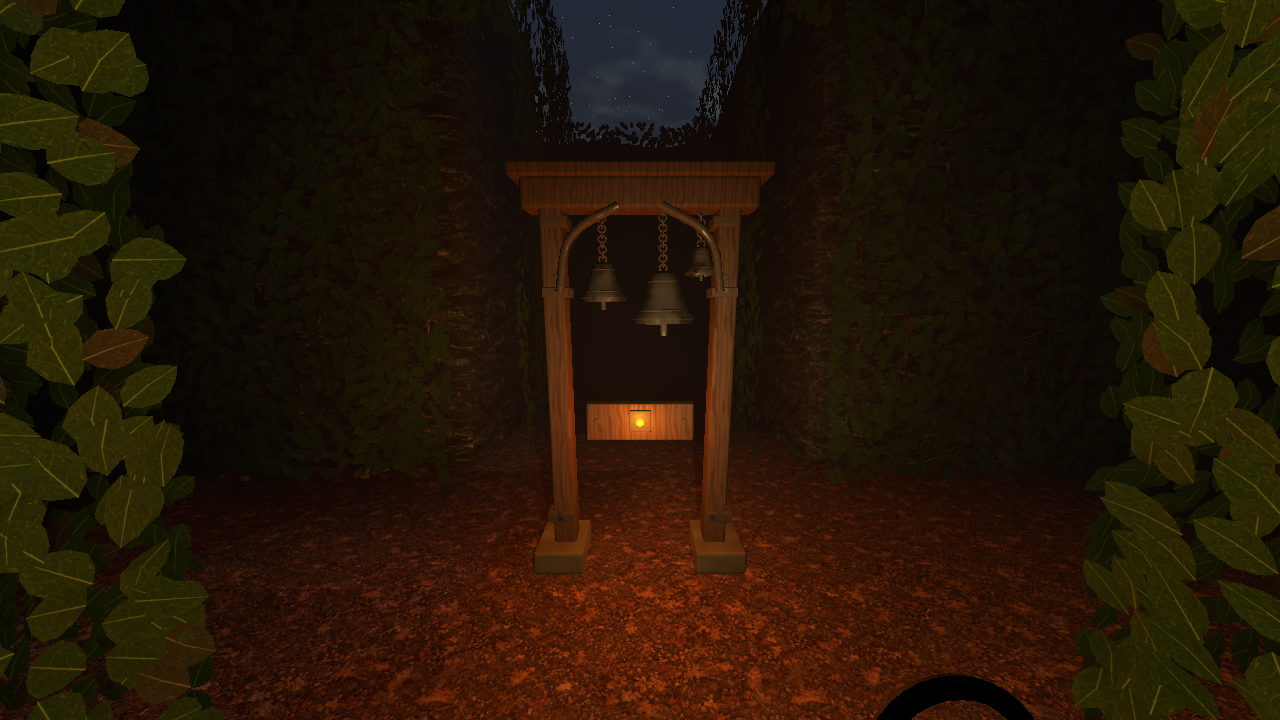
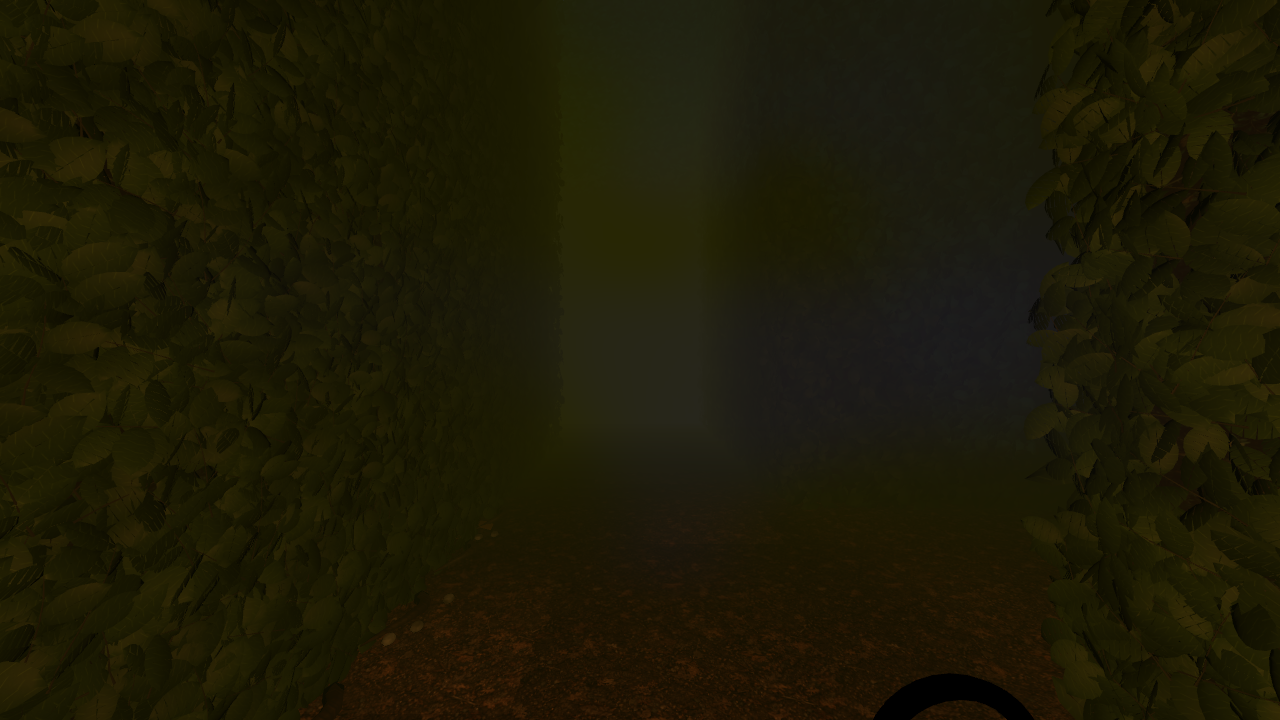
release: publish 0.23.20 immersion and survivor motion (#106)
Publish the locally built and tested alpha through the existing website and Windows updater. Preserve launcher URLs and settings. The owner authorized only GitHub’s built-in Pages deployment; builds and verification ran locally.

diff --git a/docs/index.html b/docs/index.html
@@ -23,10 +23,10 @@
     <img class="hero-image" src="./assets/station-key-art.png" alt="Key art: a lone figure beneath a red beacon in a flooded pumping station" fetchpriority="high">
     <div class="hero-shade"></div>
     <div class="hero-copy">
-      <p class="eyebrow"><span class="signal" aria-hidden="true"></span> FREE PLAYABLE ALPHA <span class="build-number">/ 0.23.19</span></p>
+      <p class="eyebrow"><span class="signal" aria-hidden="true"></span> FREE PLAYABLE ALPHA <span class="build-number">/ 0.23.20</span></p>
       <h1 id="game-title">THE HOLLOW<br><span>BELOW</span><i>.</i></h1>
       <p class="tagline">Something down here<br>still remembers your name.</p>
-      <div class="hero-actions"><a class="button primary" href="https://github.com/RyanVerWey/the-hollow-below-alpha/releases/download/v0.23.19/The-Hollow-Below-Alpha-Setup.exe" data-installer-download download>DOWNLOAD INSTALLER <span aria-hidden="true">↓</span></a></div>
+      <div class="hero-actions"><a class="button primary" href="https://github.com/RyanVerWey/the-hollow-below-alpha/releases/download/v0.23.20/The-Hollow-Below-Alpha-Setup.exe" data-installer-download download>DOWNLOAD INSTALLER <span aria-hidden="true">↓</span></a></div>
       <p class="platform-note">Windows 10 / 11 · Solo / 2–4 player co-op · Keyboard &amp; mouse</p>
     </div>
     <div class="hero-bottom"><span>BLACKWATER MUNICIPAL AUTHORITY<br><small>INCIDENT RECORD / 013</small></span><button class="sound-toggle" id="sound-toggle" type="button" aria-pressed="false"><span aria-hidden="true">♫</span> LISTEN TO THE STATION</button><span class="key-art-label">KEY ART / NOT A GAMEPLAY CAPTURE</span></div>
@@ -45,10 +45,10 @@
   <section class="play-section section" id="play" aria-labelledby="play-title">
     <div class="play-heading"><p class="eyebrow">02 / ACCESS AUTHORIZED</p><h2 id="play-title">GO BELOW.</h2><p>Free alpha. No account. No engine to install.</p></div>
     <div class="download-panel">
-      <div class="release-line"><span class="availability"><span class="signal" aria-hidden="true"></span> ALPHA AVAILABLE</span><span id="release-version">BUILD 0.23.19</span></div>
+      <div class="release-line"><span class="availability"><span class="signal" aria-hidden="true"></span> ALPHA AVAILABLE</span><span id="release-version">BUILD 0.23.20</span></div>
       <h3>WINDOWS ALPHA</h3><p class="download-description">The full game and its own launcher in one Windows installer. Install once, then return through your desktop or Start menu shortcut.</p>
-      <a class="button primary download-launcher" href="https://github.com/RyanVerWey/the-hollow-below-alpha/releases/download/v0.23.19/The-Hollow-Below-Alpha-Setup.exe" data-installer-download download>DOWNLOAD INSTALLER <span aria-hidden="true">↓</span></a>
-      <p class="download-facts" id="download-facts">Windows 10 / 11, 64-bit · Full installer: 394.7 MB</p>
+      <a class="button primary download-launcher" href="https://github.com/RyanVerWey/the-hollow-below-alpha/releases/download/v0.23.20/The-Hollow-Below-Alpha-Setup.exe" data-installer-download download>DOWNLOAD INSTALLER <span aria-hidden="true">↓</span></a>
+      <p class="download-facts" id="download-facts">Windows 10 / 11, 64-bit · Full installer: 401.1 MB</p>
       <ol class="install-steps"><li>Open the installer and choose <b>Install</b>.</li><li>Open the launcher and choose <b>Play game</b>.</li><li>Return using your desktop or Start menu shortcut.</li></ol>
       <p class="alpha-note">Early, unsigned alpha software. Windows may show a publisher warning. There is no save system yet.</p>
       <p class="launcher-features">Game-file verification · Offline play · No administrator needed<br>Uninstall through Windows Installed apps.</p>
@@ -58,7 +58,7 @@
   <section class="field-section section" id="field-notes" aria-labelledby="notes-title">
     <div class="field-heading"><p class="eyebrow">03 / FIELD NOTES</p><h2 id="notes-title">BEFORE YOU ENTER.</h2></div>
     <div class="field-grid"><div class="controls"><h3>Keep these close.</h3><dl><div><dt>Move</dt><dd>W A S D</dd></div><div><dt>Look</dt><dd>MOUSE / ARROWS</dd></div><div><dt>Sprint</dt><dd>SHIFT</dd></div><div><dt>Crouch</dt><dd>C / CTRL</dd></div><div><dt>Flashlight</dt><dd>F</dd></div><div><dt>Use / hide</dt><dd>E</dd></div><div><dt>Objectives</dt><dd>TAB</dd></div><div><dt>Survey in staging</dt><dd>M</dd></div><div><dt>Difficulty in staging</dt><dd>R</dd></div><div><dt>Pause</dt><dd>ESC</dd></div></dl></div>
-    <div class="faq"><details open><summary>What is in this alpha?</summary><p>Godot alpha 0.23.19. Voice has two explicit transmission modes: Open Microphone and Push to Talk. Push to Talk sends only while its bound key is held, including quiet speech; releasing it closes the send gate. Stale microphone frames are discarded at input boundaries. Everyone in a co-op group should update. Play solo or host private co-op for 2–4 players using invite codes. Choose from four survivors and save your own display name. The host selects either level and difficulty. Survivors start separately, share objectives and map discoveries, and must each escape. Death or escape lets you spectate. The host must stay connected; online menus do not pause the hunt. Internet is required for co-op; solo play remains offline. Two playable nightmares: Blackwater pumping station and Briarwake Estate, a moonlit hedge maze. Briarwake has a blood-moon sky, drifting haze, damp dirt paths and joined hedges. Its farmer wears a stitched hood and leather apron, carries a two-handed chainsaw, and uses authored walk, run and three attack animations. New iron oil lanterns mark corridor turns. Its chainsaw attacks have a visible windup, a committed swing and recovery; cover and retreat can prevent a hit. Briarwake has a safe potting house, dim lanterns, cold haze, tool shelters and the Thornkeeper: a demonic farmer carrying a chainsaw. Restore three wards in any order. The Lantern Ward strengthens guide lights and doubles portable-lantern endurance; the Wind Bell adds player tracking and a reusable nearby stagger; the Root Altar opens three thorn shortcuts. Any ward unlocks the M-toggle survey; seen objectives are recorded on the map; unseen locations remain hidden. Restore all three and return to the estate gate. Hear the saw approach before you see him. Both levels share the same HUD, map legend, objective checklist, pause controls and settings. Found objectives gain amber map pins; completed objectives turn green. Both levels offer Easy, Normal, Hard and Nightmare, with different routes, lighting, equipment and hunting. Nightmare removes portable light and sprint and locks most hiding places. Blackwater retains its breaker progression and live field map. Electrical buzzing grows louder near unpowered breakers, carries around corners and stops when restored. In Briarwake, follow lantern wind and loose metal, a creaking bell hanger with dull clapper, or dry root groans to dormant wards. Each falls silent when restored. Its harmless corner scares now have roughly half the former cooldown, with shorter retries when placement fails. Corn Maze and Stone Labyrinth remain Coming Soon. TAB shows objectives; Escape pauses and resumes. Restarting or leaving a run requires confirmation that progress will not be saved. Controls &amp; settings offers Fullscreen, Borderless and Windowed, resolution, three graphics presets, V-Sync and a frame limit. Display changes revert unless confirmed. The title menu includes Quit to desktop.</p></details><details><summary>How do I play with friends?</summary><p>Open Play with Friends, enter your name and host a private lobby. Share its invite code with up to three friends. Everyone chooses a survivor and readies up; the host chooses the level and difficulty and starts the descent. You begin in different maze sectors, share objective progress and each need to reach the exit. No account or port forwarding is needed. Co-op requires Internet; the host must keep the game open. Menus do not pause online play. Solo play remains available offline.</p></details><details><summary>How do updates work?</summary><p>The launcher checks for updates when it opens. When a newer alpha is available, choose Update &amp; restart. It downloads and verifies the full installer, installs the update, and reopens the launcher. Close the game before updating. Installed play stays available offline. Older launchers need the latest full installer once to enable this feature.</p></details><details><summary>Can I play on my phone or with a controller?</summary><p>This alpha is built for a desktop keyboard and mouse. Mobile, controller support and saved progress are not available.</p></details><details><summary>Is this on Steam?</summary><p>Not yet. This is an early independent playtest, shared directly while the game grows.</p></details><details><summary>Found something broken?</summary><p>Send the person who shared the game your build number, Windows version, what happened, and the steps that caused it. A screenshot helps. Windows logs: <code>%APPDATA%\Godot\app_userdata\The Hollow Below\logs</code>.</p></details></div></div>
+    <div class="faq"><details open><summary>What is in this alpha?</summary><p>Godot alpha 0.23.20. Briarwake now has continuous tall 3D hedges with layered leaves, branches and overhead vines, plus dense drifting mist at eye height and a low-quality fog fallback. Everyone in a co-op group should update. Play solo or host private co-op for 2–4 players using invite codes. Choose from four survivors and save your own display name. The host selects either level and difficulty. Survivors start separately, share objectives and map discoveries, and must each escape. Death or escape lets you spectate. The host must stay connected; online menus do not pause the hunt. Internet is required for co-op; solo play remains offline. Two playable nightmares: Blackwater pumping station and Briarwake Estate, a moonlit hedge maze. Briarwake has a blood-moon sky, drifting haze, damp dirt paths and joined hedges. Its farmer wears a stitched hood and leather apron, carries a two-handed chainsaw, and uses authored walk, run and three attack animations. New iron oil lanterns mark corridor turns. Its chainsaw attacks have a visible windup, a committed swing and recovery; cover and retreat can prevent a hit. Briarwake has a safe potting house, dim lanterns, cold haze, tool shelters and the Thornkeeper: a demonic farmer carrying a chainsaw. Restore three wards in any order. The Lantern Ward strengthens guide lights and doubles portable-lantern endurance; the Wind Bell adds player tracking and a reusable nearby stagger; the Root Altar opens three thorn shortcuts. Any ward unlocks the M-toggle survey; seen objectives are recorded on the map; unseen locations remain hidden. Restore all three and return to the estate gate. Hear the saw approach before you see him. Both levels share the same HUD, map legend, objective checklist, pause controls and settings. Found objectives gain amber map pins; completed objectives turn green. Both levels offer Easy, Normal, Hard and Nightmare, with different routes, lighting, equipment and hunting. Nightmare removes portable light and sprint and locks most hiding places. Blackwater retains its breaker progression and live field map. Electrical buzzing grows louder near unpowered breakers, carries around corners and stops when restored. In Briarwake, follow lantern wind and loose metal, a creaking bell hanger with dull clapper, or dry root groans to dormant wards. Each falls silent when restored. Its harmless corner scares now have roughly half the former cooldown, with shorter retries when placement fails. Corn Maze and Stone Labyrinth remain Coming Soon. TAB shows objectives; Escape pauses and resumes. Restarting or leaving a run requires confirmation that progress will not be saved. Controls &amp; settings offers Fullscreen, Borderless and Windowed, resolution, three graphics presets, V-Sync and a frame limit. Display changes revert unless confirmed. The title menu includes Quit to desktop.</p></details><details><summary>How do I play with friends?</summary><p>Open Play with Friends, enter your name and host a private lobby. Share its invite code with up to three friends. Everyone chooses a survivor and readies up; the host chooses the level and difficulty and starts the descent. You begin in different maze sectors, share objective progress and each need to reach the exit. No account or port forwarding is needed. Co-op requires Internet; the host must keep the game open. Menus do not pause online play. Solo play remains available offline.</p></details><details><summary>How do updates work?</summary><p>The launcher checks for updates when it opens. When a newer alpha is available, choose Update &amp; restart. It downloads and verifies the full installer, installs the update, and reopens the launcher. Close the game before updating. Installed play stays available offline. Older launchers need the latest full installer once to enable this feature.</p></details><details><summary>Can I play on my phone or with a controller?</summary><p>This alpha is built for a desktop keyboard and mouse. Mobile, controller support and saved progress are not available.</p></details><details><summary>Is this on Steam?</summary><p>Not yet. This is an early independent playtest, shared directly while the game grows.</p></details><details><summary>Found something broken?</summary><p>Send the person who shared the game your build number, Windows version, what happened, and the steps that caused it. A screenshot helps. Windows logs: <code>%APPDATA%\Godot\app_userdata\The Hollow Below\logs</code>.</p></details></div></div>
   </section>
 </main>
 <footer class="footer"><a class="brand footer-brand" href="#">THE HOLLOW BELOW<span>THE STATION IS STILL LISTENING.</span></a><button id="share" class="inline-button" type="button">Copy playtest link <span aria-hidden="true">↗</span></button><p>Independent horror alpha · 2026<br><a href="./assets/audio-credits.txt">Audio credits</a></p><span id="share-status" class="sr-only" role="status"></span></footer>

diff --git a/README.md b/README.md
@@ -5,9 +5,9 @@ Free Windows horror alpha. Solo and private co-op for up to four players. Keyboa
 ## Play
 
 - **[Official playtest website](https://ryanverwey.github.io/the-hollow-below-alpha/)**
-- **[Download the Windows installer](https://github.com/RyanVerWey/the-hollow-below-alpha/releases/download/v0.23.19/The-Hollow-Below-Alpha-Setup.exe)**
+- **[Download the Windows installer](https://github.com/RyanVerWey/the-hollow-below-alpha/releases/download/v0.23.20/The-Hollow-Below-Alpha-Setup.exe)**
 
-- [Release files and notes](https://github.com/RyanVerWey/the-hollow-below-alpha/releases/tag/v0.23.19)
+- [Release files and notes](https://github.com/RyanVerWey/the-hollow-below-alpha/releases/tag/v0.23.20)
 
 On Windows, open the installer, choose **Install**, then open the launcher and choose **Play game**. Desktop and Start menu shortcuts are included. The launcher checks for updates when opened. Choose **Update & restart** to download, verify and install a newer release, then reopen the launcher. Close the game first. Installed play works offline. Launchers from before this feature need the latest full installer once. Portable copies are updated manually. No administrator access or game development tools are required.
 
@@ -111,3 +111,7 @@ Lobby voice reaches the whole crew without a 3D listener. During a run, voices p
 ## Godot alpha 0.23.19
 
 Choose Open Microphone or Push to Talk in Settings / Voice Chat. Push to Talk transmits only while its bound key is held; quiet speech is retained and release closes the gate. Green audio symbols beside player names show transmitted speech in the lobby and game. Lobby audio reaches the crew; game audio fades by proximity. Muting safely retires active playback. Repeater footsteps are dry concrete contacts without the rejected metal taps or wet squeaks. Reaver footsteps retain the owner-supplied massive recording, with stronger carry and a dark hall return. No Suno downloads. Close the game fully before updating every player; settings are preserved.
+
+## Godot alpha 0.23.20
+
+Briarwake gains tall layered 3D hedges, dense drifting mist and recorded grass/dirt footsteps. All four survivors have reworked locomotion and equipment carrying. Hinged toolsheds animate entry/exit and provide a narrow outside view while hidden. Close the game and use **Check for updates → Update & restart** in the existing launcher. Update every friend before testing together; settings are preserved.
